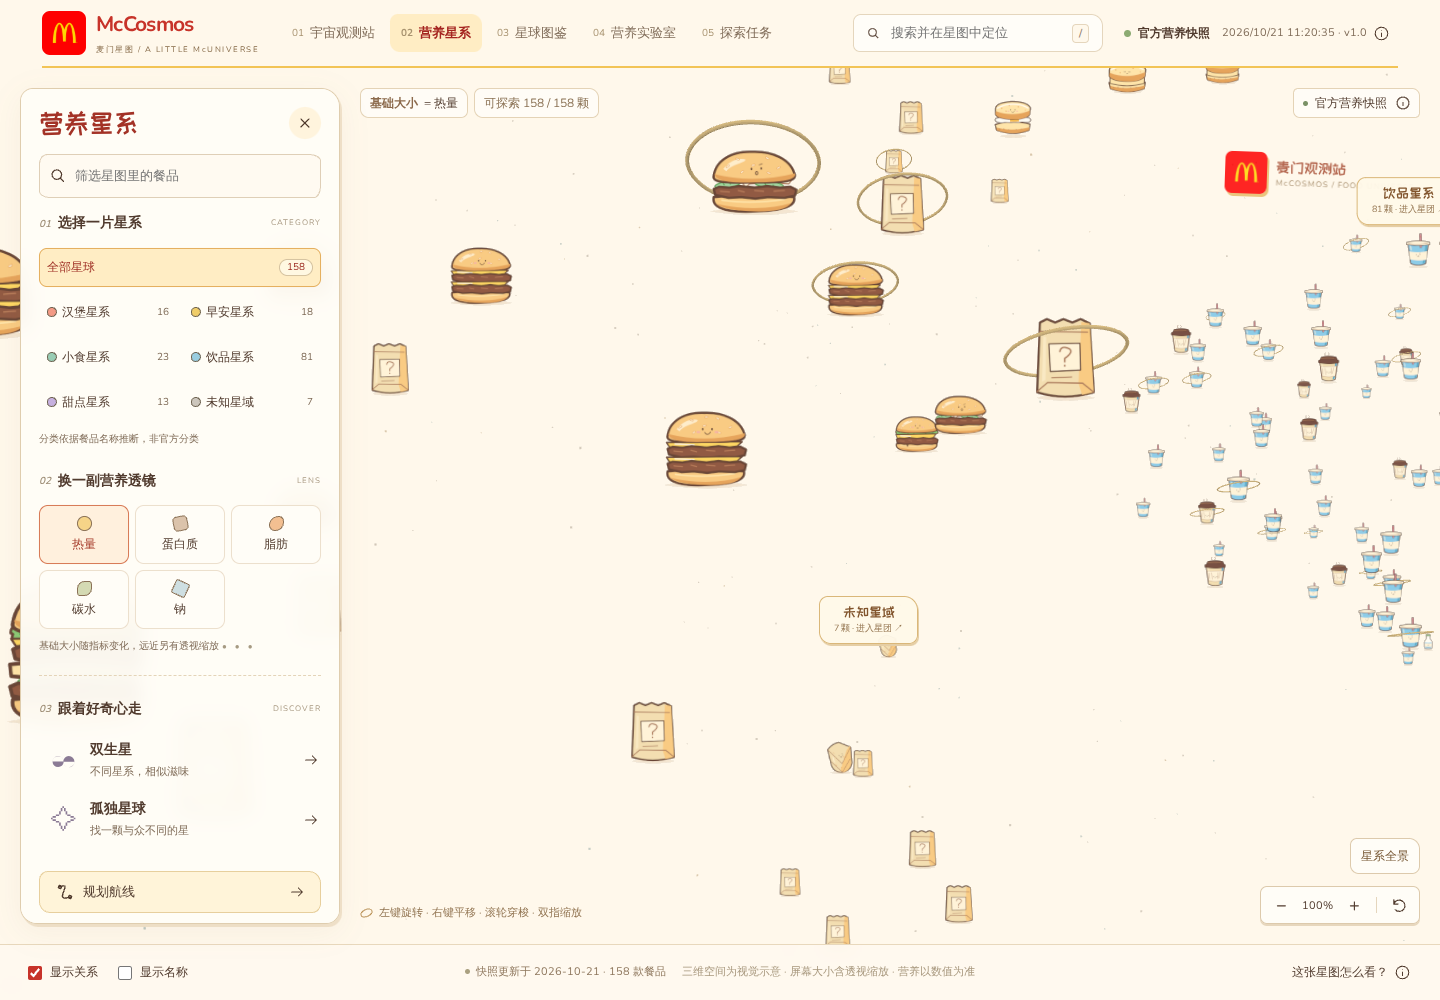
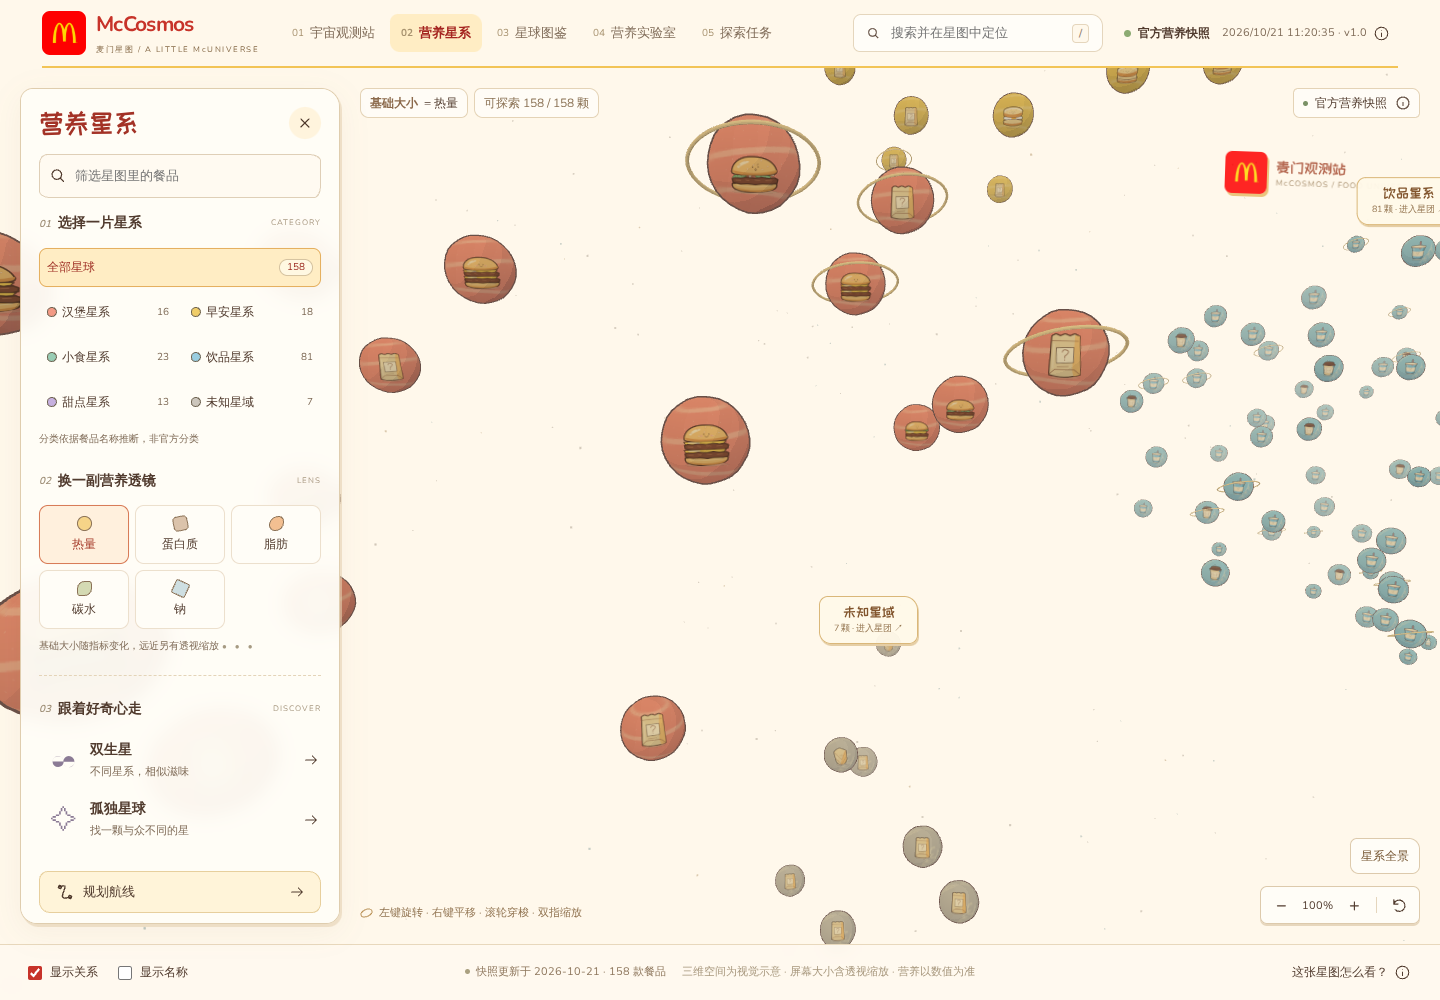
Document validated food planet and layout screenshots [skip ci]

diff --git a/README.md b/README.md
@@ -10,6 +10,8 @@
 
 ![麦门星图 · 三维卡通美食宇宙](docs/screenshots/food-universe-desktop.png)
 
+![三维球面图案与真实商品图片](docs/screenshots/food-planet-details.png)
+
 ![清晰排版的今日任务](docs/screenshots/home-missions-1112.png)
 
 ## 食物星球与真实商品照片
